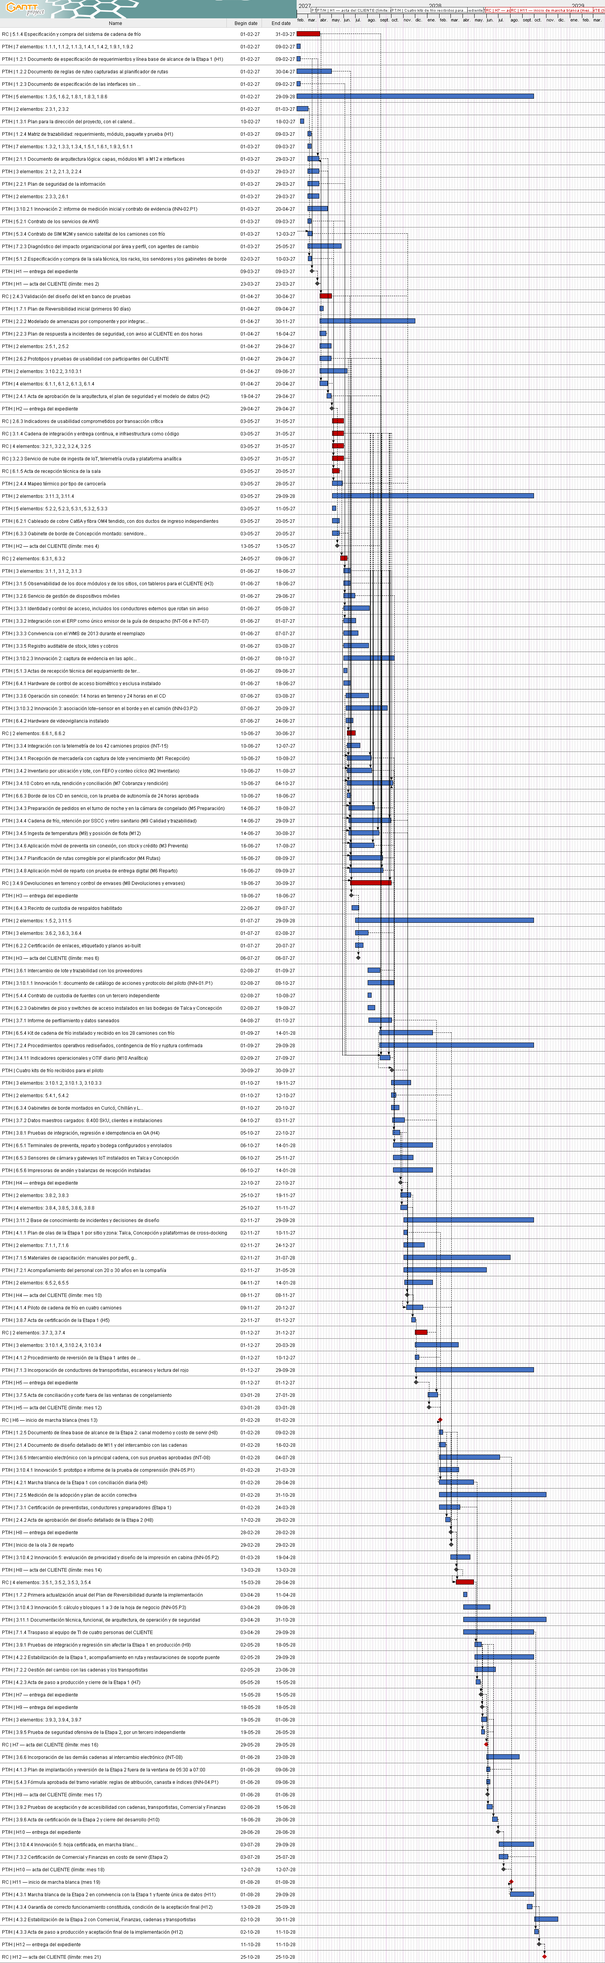
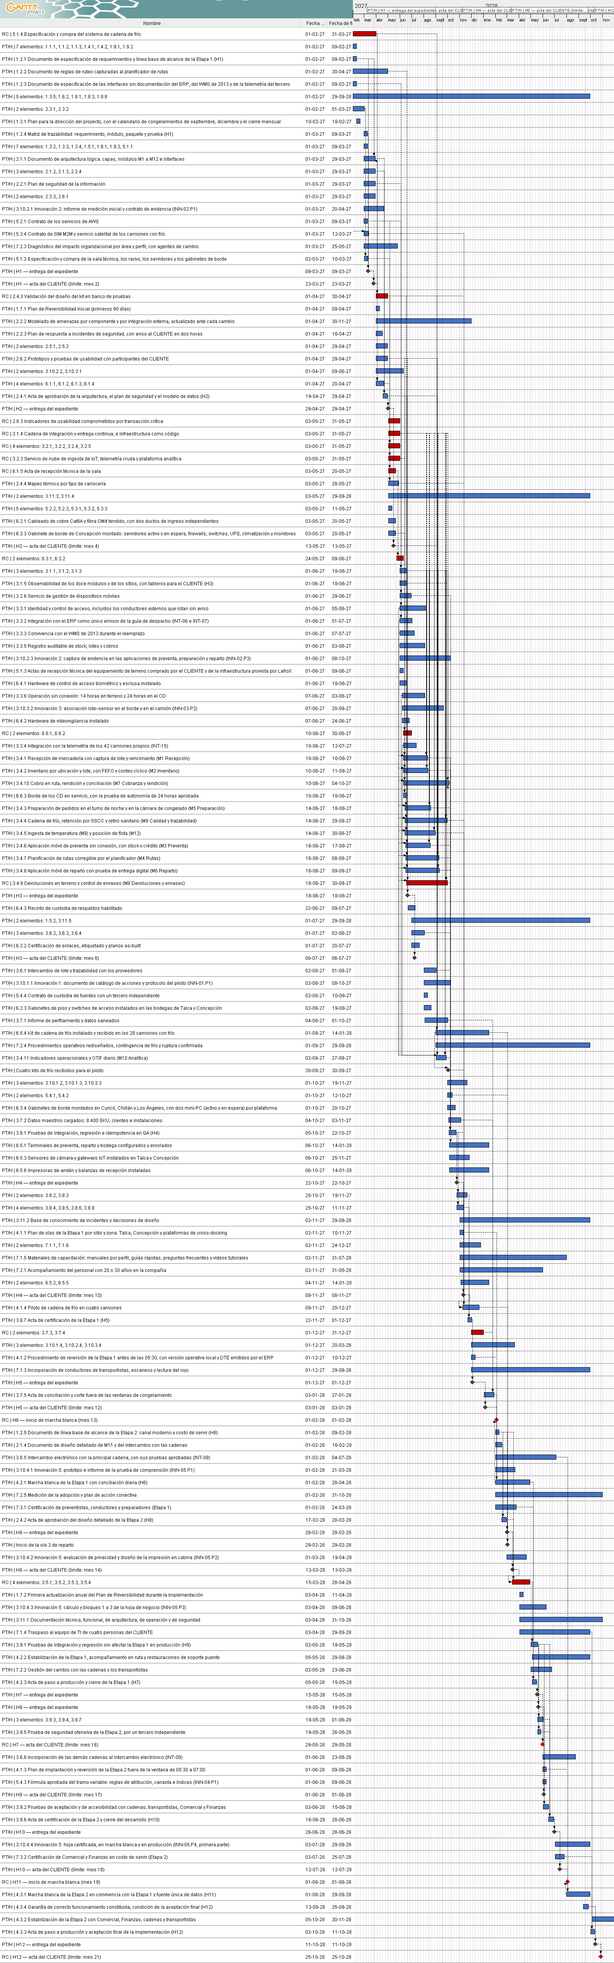
docs(sd7): usa solo cartas Gantt de GanttProject y cumple calendario
- Reemplaza en SD7 y T-14 las cartas Gantt generadas con IA por la
  carta resumida de GanttProject, dividida en 7 tramos, y su vista crítica.
- Agrega la carta de 56 meses (Fig_7_Gantt_56_Meses.gan), que exige el
  Formulario T-14: períodos del art. 17, marchas blancas, pasos a
  producción, inicio de la Operación e hitos H1 a H12.
- Mueve el inicio de 4.2.2 al 5-05-2028 y el de 4.3.2 al 5-10-2028, el
  cuarto día hábil del mes, para que ningún paso a producción caiga en
  los tres primeros días hábiles (Caso 13.3, condición 2; RT-20.06).
- Alinea los textos con la carta: 4.3.2 cubre del 5-10 al 30-11 y las
  cuatro semanas reforzadas tras el acta H12 quedan dentro de ese período.

diff --git a/formulario-t14/contenido.tex b/formulario-t14/contenido.tex
@@ -11,7 +11,7 @@
   \end{anexohorizontal}
   \clearpage}
 
-Este formulario detalla lo que el Subdocumento 7 (LafroX, 2026p) resume en sus secciones 7.1 y 7.3, conforme al Formulario T-14 de las Bases Administrativas y al Capítulo 7 del índice obligatorio de las Aclaraciones de la licitación (Distribuidora Puelche S.A., 2026d, sec. 11). Contiene la estructura de descomposición del trabajo (EDT) completa; su diccionario, con el entregable, el criterio de aceptación, el responsable y el período de cada paquete; y la carta Gantt de los 56 meses del contrato. El método de estimación y programación, la ruta crítica y los frentes de trabajo se detallan en el Formulario T-15, y la implantación de cada etapa, en el Formulario T-18 (LafroX, 2026s). La EDT termina en el paquete de trabajo; la descomposición de cada paquete en actividades de 8 a 80 horas hombre que caben en una quincena, con sus fechas, está en el Formulario T-15, sección 6. La EDT termina en el paquete de trabajo; la descomposición de cada paquete en actividades de 8 a 80 horas hombre que caben en una quincena está en el Formulario T-15, sección 6.
+Este formulario detalla lo que el Subdocumento 7 (LafroX, 2026p) resume en sus secciones 7.1 y 7.3, conforme al Formulario T-14 de las Bases Administrativas y al Capítulo 7 del índice obligatorio de las Aclaraciones de la licitación (Distribuidora Puelche S.A., 2026d, sec. 11). Contiene la estructura de descomposición del trabajo (EDT) completa; su diccionario, con el entregable, el criterio de aceptación, el responsable y el período de cada paquete; y la carta Gantt de los 56 meses del contrato, con el detalle de las Etapas 1 y 2. El método de estimación y programación, la ruta crítica y los frentes de trabajo se detallan en el Formulario T-15, y la implantación de cada etapa, en el Formulario T-18 (LafroX, 2026s). La EDT termina en el paquete de trabajo; la descomposición de cada paquete en actividades de 8 a 80 horas hombre que caben en una quincena, con sus fechas, está en el Formulario T-15, sección 6. La EDT termina en el paquete de trabajo; la descomposición de cada paquete en actividades de 8 a 80 horas hombre que caben en una quincena está en el Formulario T-15, sección 6.
 
 En este formulario, BA, BTT y Caso designan las Bases Administrativas (Distribuidora Puelche S.A., 2026a), las Bases Técnicas Transversales (2026b) y las Bases Técnicas del Caso Logística (2026c).
 
@@ -1082,33 +1082,58 @@ La Tabla \ref{tab:T-14-51} presenta sus paquetes.
 
 \parte{tablas/tab_T14_51}
 
-\section{Carta Gantt de 56 meses}
+\section{Carta Gantt}
 
-La carta Gantt cubre los 56 meses del contrato y muestra las ventanas de marcha blanca, los pasos a producción y el inicio de la fase de Operación, como exige el Formulario T-14. Su estructura contractual la fija el artículo 17 de las Bases Administrativas (pp. 12--13), y los hitos y sus meses, el Formulario E-25. La Tabla \ref{tab:T14-gantt} presenta esa estructura fija, sobre la cual se programan los paquetes de la sección 2.
+La carta Gantt muestra las ventanas de marcha blanca, los pasos a producción y el inicio de la fase de Operación, como exige el Formulario T-14. Su estructura contractual la fija el artículo 17 de las Bases Administrativas (pp. 12--13), y los hitos y sus meses, el Formulario E-25. La Tabla \ref{tab:T14-gantt} presenta esa estructura fija de los 56 meses, sobre la cual se programan los paquetes de la sección 2.
 
 \parte{tablas/tab_T14_52}
 
-Ningún paso a producción, inicio de ola, corte de datos ni intervención con impacto en la facturación o en el inventario valorizado se programa en septiembre, en diciembre ni en los tres primeros días hábiles de un mes (Caso, secciones 13.2 y 13.3, pp. 22--23). La correspondencia entre meses contractuales y meses calendario depende de la fecha de inicio del contrato; se analiza en la sección 7.3.2 del Subdocumento 7 y en su Anexo 7.A, que adoptan como supuesto un inicio en febrero de 2027. La Figura \ref{fig:T14-56} presenta la carta de los 56 meses por período contractual y por fase.
+Ningún paso a producción, inicio de ola, corte de datos ni intervención con impacto en la facturación o en el inventario valorizado se programa en septiembre, en diciembre ni en los tres primeros días hábiles de un mes (Caso, secciones 13.2 y 13.3, pp. 22--23). La correspondencia entre meses contractuales y meses calendario depende de la fecha de inicio del contrato; se analiza en la sección 7.3.2 del Subdocumento 7 y en su Anexo 7.A, que adoptan como supuesto un inicio en febrero de 2027.
 
-\figuraDiagramaHorizontal[527pt]{imagenes/Diagramas que faltaban/Fig_7-8_T14-1_Gantt_56_meses.pdf}
-  {Carta Gantt de los 56 meses por período contractual y por fase, con inicio en febrero de 2027. Fuente: elaboración a partir de Distribuidora Puelche S.A. (2026a, art. 17, pp. 12--13 y Formulario E-25) y la sección 2 de este formulario.}
+La Figura \ref{fig:T14-56} presenta la carta de los 56 meses del contrato, elaborada en GanttProject: los períodos del artículo 17, las ventanas de marcha blanca, los pasos a producción del 5 de mayo y del 5 de octubre de 2028 (cuarto día hábil de cada mes), el inicio de la Operación, simultáneo con el paso a producción de la Etapa 2, y los hitos H1 a H12.
+
+\figuraDiagramaHorizontal[0pt]{imagenes/Diagramas que faltaban/LafroX-Gantt-56-meses.png}
+  {Carta Gantt de los 56 meses por período contractual, con inicio en febrero de 2027. Fuente: elaboración en GanttProject a partir de Distribuidora Puelche S.A. (2026a, art. 17, pp. 12--13 y Formulario E-25) y de las Figuras \ref{fig:T14-gantt} a \ref{fig:T14-gantt-7}.}
   {fig:T14-56}
 
-La carta confirma que los períodos fijos del artículo 17 de las Bases Administrativas (pp. 12--13) se cumplen mes a mes y que ningún paso a producción cae en una columna de congelamiento. La sección 3.1 detalla la programación por cuenta de control.
+Las Figuras \ref{fig:T14-gantt} a \ref{fig:T14-gantt-7} detallan, en siete partes, la implementación de las Etapas 1 y 2: 155 filas ordenadas por fecha de inicio, desde febrero de 2027 hasta la estabilización de la Etapa 2, con las dependencias entre paquetes visibles. Cada fila es un paquete con entregable, un grupo de paquetes que comparten fechas («n elementos») o un hito del Formulario E-25, separado en la entrega del expediente y el acta del CLIENTE. El prefijo RC marca los elementos de la ruta crítica; PT/H, los demás paquetes y los hitos.
 
-Según la carta de la sección 3.1, la sala técnica y el borde de los sitios se instalan entre los meses 3 y 5, la base compartida y los módulos de la Etapa 1 se construyen entre los meses 5 y 8, y las pruebas de integración y certificación de la Etapa 1 ocupan los meses 9 y 10, antes del H5 del mes 12. Las cuentas de la Etapa 2 (3.5, 3.9, 4.3 y la segunda parte de 5.4) se ubican entre los meses 13 y 22, con los módulos en el mes 15 y la integración y certificación en los meses 16 y 17. Las cuentas de capacitación y de gestión del cambio se intensifican desde el mes 10, en preparación de cada marcha blanca.
+\figuraDiagramaHorizontal[0pt]{imagenes/Diagramas que faltaban/Gantt-Resumen-Tramos/LafroX-Gantt-resumen-1-de-7.png}
+  {Carta Gantt resumida de las Etapas 1 y 2 con dependencias visibles, parte 1 de 7 (filas 1 a 23 de 155), con inicio en febrero de 2027. Fuente: elaboración en GanttProject a partir de la sección 2 de este formulario.}
+  {fig:T14-gantt}
 
-\subsection{Carta Gantt actualizada por cuenta de control}
+\figuraDiagramaHorizontal[0pt]{imagenes/Diagramas que faltaban/Gantt-Resumen-Tramos/LafroX-Gantt-resumen-2-de-7.png}
+  {Carta Gantt resumida de las Etapas 1 y 2 con dependencias visibles, parte 2 de 7 (filas 24 a 45 de 155), con inicio en febrero de 2027. Fuente: elaboración en GanttProject a partir de la sección 2 de este formulario.}
+  {fig:T14-gantt-2}
 
-Las siguientes vistas actualizadas detallan las cuentas de control de los meses 1 a 21: la primera, las fases 1 a 3; la segunda, las fases 4 a 7. La carta de 56 meses de la Figura \ref{fig:T14-56} presenta el panorama contractual completo. Cada barra va desde el primer mes hasta el último de las ventanas mensuales de los paquetes de la cuenta, según el Formulario T-15, sección 4.2; esas ventanas son envolventes de asignación y pueden incluir meses de margen sin ejecución. Las fechas diarias de los paquetes con entregable están en su sección 6.1. Los hitos se ubican al cierre de su mes, salvo H6 y H11, que marcan el inicio de una marcha blanca. El detalle por paquete, con sus 227 ventanas, está en la sección 4.2, y la red con revisiones del CLIENTE y el cálculo de la ruta crítica, en la sección 5. Las cuentas recurrentes (1.4, 1.8, 1.9, 7.1 y 8) se muestran como barras continuas, aunque su trabajo se ejecute con la frecuencia que fija este diccionario.
+\figuraDiagramaHorizontal[0pt]{imagenes/Diagramas que faltaban/Gantt-Resumen-Tramos/LafroX-Gantt-resumen-3-de-7.png}
+  {Carta Gantt resumida de las Etapas 1 y 2 con dependencias visibles, parte 3 de 7 (filas 46 a 67 de 155), con inicio en febrero de 2027. Fuente: elaboración en GanttProject a partir de la sección 2 de este formulario.}
+  {fig:T14-gantt-3}
 
-\figuraDiagramaHorizontal[361pt]{imagenes/Diagramas que faltaban/Fig_T14-2_Cuentas_m1-21_Fases1-3.pdf}
-  {Carta Gantt actualizada por cuenta de control, meses 1 a 21, fases 1 a 3. Fuente: elaboración a partir de la EDT de este formulario y LafroX (2026e, T-15, cronograma).}
-  {fig:T14-cca}
+\figuraDiagramaHorizontal[0pt]{imagenes/Diagramas que faltaban/Gantt-Resumen-Tramos/LafroX-Gantt-resumen-4-de-7.png}
+  {Carta Gantt resumida de las Etapas 1 y 2 con dependencias visibles, parte 4 de 7 (filas 68 a 89 de 155), con inicio en febrero de 2027. Fuente: elaboración en GanttProject a partir de la sección 2 de este formulario.}
+  {fig:T14-gantt-4}
 
-\figuraDiagramaHorizontal[463pt]{imagenes/Diagramas que faltaban/Fig_T14-3_Cuentas_m1-21_Fases4-7.pdf}
-  {Carta Gantt actualizada por cuenta de control, meses 1 a 21, fases 4 a 7. Fuente: elaboración a partir de la EDT de este formulario y LafroX (2026e, T-15, cronograma).}
-  {fig:T14-ccb}
+\figuraDiagramaHorizontal[0pt]{imagenes/Diagramas que faltaban/Gantt-Resumen-Tramos/LafroX-Gantt-resumen-5-de-7.png}
+  {Carta Gantt resumida de las Etapas 1 y 2 con dependencias visibles, parte 5 de 7 (filas 90 a 111 de 155), con inicio en febrero de 2027. Fuente: elaboración en GanttProject a partir de la sección 2 de este formulario.}
+  {fig:T14-gantt-5}
+
+\figuraDiagramaHorizontal[0pt]{imagenes/Diagramas que faltaban/Gantt-Resumen-Tramos/LafroX-Gantt-resumen-6-de-7.png}
+  {Carta Gantt resumida de las Etapas 1 y 2 con dependencias visibles, parte 6 de 7 (filas 112 a 133 de 155), con inicio en febrero de 2027. Fuente: elaboración en GanttProject a partir de la sección 2 de este formulario.}
+  {fig:T14-gantt-6}
+
+\figuraDiagramaHorizontal[0pt]{imagenes/Diagramas que faltaban/Gantt-Resumen-Tramos/LafroX-Gantt-resumen-7-de-7.png}
+  {Carta Gantt resumida de las Etapas 1 y 2 con dependencias visibles, parte 7 de 7 (filas 134 a 155 de 155), con inicio en febrero de 2027. Fuente: elaboración en GanttProject a partir de la sección 2 de este formulario.}
+  {fig:T14-gantt-7}
+
+La carta confirma que los períodos fijos del artículo 17 de las Bases Administrativas (pp. 12--13) se cumplen mes a mes y que ningún paso a producción cae en un período de congelamiento. La sala técnica y el borde de los sitios se instalan entre los meses 3 y 5, la base compartida y los módulos de la Etapa 1 se construyen entre los meses 4 y 8, y las pruebas de integración y certificación de la Etapa 1 ocupan los meses 9 y 10, antes del H5 del mes 12. Las cuentas de la Etapa 2 (3.5, 3.9, 4.3 y la segunda parte de 5.4) se ubican entre los meses 13 y 22, con los módulos en los meses 14 y 15 y la integración y certificación en los meses 16 y 17. Las cuentas de capacitación y de gestión del cambio se intensifican desde el mes 10, en preparación de cada marcha blanca. Las fechas diarias de los paquetes con entregable están en el Formulario T-15, sección 6.1, y la red con revisiones del CLIENTE y el cálculo de la ruta crítica, en su sección 5.
+
+La Figura \ref{fig:T14-gantt-critica} aísla los elementos de la ruta crítica y sus dependencias hasta los inicios de las marchas blancas, H6 y H11, cuyas fechas son fijas.
+
+\figuraDiagramaHorizontal[0pt]{imagenes/Diagramas que faltaban/LafroX-Gantt-vista-critica.png}
+  {Vista crítica de la carta Gantt: paquetes de la ruta crítica y sus dependencias hasta H6 y H11. Fuente: elaboración en GanttProject a partir de la sección 2 de este formulario.}
+  {fig:T14-gantt-critica}
+
 \section{Criterios vigentes de programación y recursos}
 
 Las ventanas mensuales de asignación y las HH por paquete están en el T-15, sección 4. La preparación del H3 sigue esta secuencia: planos 2.3.1/\allowbreak{}2.3.2 en el mes 1, especificación y orden de compra de LafroX 5.1.2 en el mes 2, instalación 6.1.1–6.1.4 en el mes 3 y recepción 6.1.5 en el mes 4. Los racks R01/\allowbreak{}R02 se montan en los meses 4 y 5, el gabinete de Concepción en el mes 4 y el borde de los CD entra en servicio mediante 6.6.3 en el mes 5. Los gabinetes de cross-docking se montan en el mes 9. El CLIENTE compra el equipamiento de terreno antes de cada ola.

diff --git a/subdocumento-07/contenido.tex b/subdocumento-07/contenido.tex
@@ -368,9 +368,15 @@ La Figura \ref{fig:7-ruta} distingue la entrega técnica del acta posterior a la
 
 La holgura se gestiona en la reunión semanal y el Comité de Proyecto quincenal (paquetes 1.3.5 y 1.8.3). Como las holguras de H7 y H12 son menores que el plazo de subsanación, sus expedientes se revisan con la Contraparte Técnica antes de la entrega formal, durante las semanas finales de cada marcha blanca; toda amenaza a esos hitos se escala al Comité Ejecutivo. Una holgura positiva tampoco autoriza consumir las cuatro semanas finales de marcha blanca. El informe mensual de valor ganado comunica toda desviación mayor al 10 \% y su plan dentro de cinco días hábiles (1.8.6).
 
+La Figura \ref{fig:7-gantt-critica} complementa la Figura \ref{fig:7-ruta}: muestra en la carta Gantt los paquetes de la ruta crítica y sus dependencias hasta los inicios de las marchas blancas, H6 y H11, cuyas fechas son fijas.
+
+\figuraDiagramaHorizontal[0pt]{imagenes/Diagramas que faltaban/LafroX-Gantt-vista-critica.png}
+  {Vista crítica de la carta Gantt: paquetes de la ruta crítica y sus dependencias hasta H6 y H11. Fuente: elaboración en GanttProject a partir de LafroX (2026d, T-14).}
+  {fig:7-gantt-critica}
+
 \subsection{Carta Gantt y calendario}
 
-La carta Gantt del Formulario T-14 cubre los 56 meses y muestra las marchas blancas, los pasos a producción y el inicio de la Operación. La Tabla \ref{tab:7-hitos} ubica los doce hitos del Formulario E-25 con el paquete que entrega cada uno.
+La carta Gantt del Formulario T-14 muestra las marchas blancas, los pasos a producción y el inicio de la Operación, sobre la estructura contractual de los 56 meses. La Tabla \ref{tab:7-hitos} ubica los doce hitos del Formulario E-25 con el paquete que entrega cada uno.
 
 \parte{tablas/tab_SD7_4}
 
@@ -382,13 +388,43 @@ Los meses contractuales caen en meses calendario distintos según la fecha de in
 
 Ningún inicio admisible deja las dos marchas blancas completas fuera de septiembre y diciembre; el Anexo 7.A extiende el análisis a los ocho meses de inicio admisibles. Con un inicio en diciembre de 2026, el inicio de la marcha blanca de la Etapa 1 cae en diciembre; con uno en marzo de 2027, el inicio de la marcha blanca de la Etapa 2 cae en septiembre. Con febrero de 2027, en cambio, el congelamiento afecta solo el segundo mes de la marcha blanca de la Etapa 2 y no un inicio, por lo que LafroX lo adopta como supuesto de calendario del cronograma. Su costo es que las semanas de cierre de esa marcha blanca coinciden con el peak de septiembre, que la sección 7.3.5 trata. Dentro de un mes de congelamiento no se inicia ninguna ola ni se despliega ningún cambio, y la marcha blanca continúa en convivencia, con medición diaria.
 
-La Figura \ref{fig:7-gantt} presenta la carta Gantt resumida de los 56 meses con ese supuesto de inicio, por período contractual. La carta vigente por cuenta de control, generada desde las ventanas reconciliadas de los 227 paquetes, está en el Formulario T-14, sección 3.1.
+La Figura \ref{fig:7-gantt-56} presenta la carta de los 56 meses con ese supuesto de inicio, elaborada en GanttProject: los períodos contractuales, las ventanas de marcha blanca, los pasos a producción del 5 de mayo y del 5 de octubre de 2028 (cuarto día hábil de cada mes), el inicio de la Operación y los hitos H1 a H12.
 
-\figuraDiagramaHorizontal[527pt]{imagenes/Diagramas que faltaban/Fig_7-8_T14-1_Gantt_56_meses.pdf}
-  {Carta Gantt resumida de los 56 meses, con inicio en febrero de 2027. Fuente: elaboración a partir de Distribuidora Puelche S.A. (2026a, art. 17, pp. 12--13 y Formulario E-25) y LafroX (2026d, T-14).}
+\figuraDiagramaHorizontal[0pt]{imagenes/Diagramas que faltaban/LafroX-Gantt-56-meses.png}
+  {Carta Gantt de los 56 meses por período contractual, con inicio en febrero de 2027. Fuente: elaboración en GanttProject a partir de Distribuidora Puelche S.A. (2026a, art. 17, pp. 12--13 y Formulario E-25) y LafroX (2026d, T-14).}
+  {fig:7-gantt-56}
+
+Las Figuras \ref{fig:7-gantt} a \ref{fig:7-gantt-7} detallan, en siete partes, la implementación de las Etapas 1 y 2: 155 filas ordenadas por fecha de inicio, desde febrero de 2027 hasta la estabilización de la Etapa 2, con las dependencias entre paquetes visibles. Cada fila es un paquete con entregable, un grupo de paquetes que comparten fechas o un hito, separado en la entrega del expediente y el acta del CLIENTE; el prefijo RC marca la ruta crítica. Ambas cartas están también en el Formulario T-14, sección 3.
+
+\figuraDiagramaHorizontal[0pt]{imagenes/Diagramas que faltaban/Gantt-Resumen-Tramos/LafroX-Gantt-resumen-1-de-7.png}
+  {Carta Gantt resumida de las Etapas 1 y 2 con dependencias visibles, parte 1 de 7 (filas 1 a 23 de 155), con inicio en febrero de 2027. Fuente: elaboración en GanttProject a partir de LafroX (2026d, T-14).}
   {fig:7-gantt}
 
-La carta muestra los periodos fijos del artículo 17 de las Bases Administrativas (pp. 12--13) mes a mes: el mes 16 es mayo de 2028 y el mes 21, octubre de 2028. Las fases de desarrollo aparecen dos veces, una por etapa, y la capacitación continúa durante la operación por la rotación de la bodega. Las columnas rayadas del mes 20 y del mes 23 confirman lo que anticipa la Tabla \ref{tab:7-inicio}: la marcha blanca de la Etapa 2 ocupa septiembre y el primer diciembre de operación cae en el mes 23. La fecha objetivo del H12, del paso oficial a producción de la Etapa 2 y del inicio simultáneo de la Operación con ambos alcances es el primer día hábil del mes 21 fuera de sus tres primeros días hábiles (5 de octubre de 2028 sólo bajo el supuesto de inicio en febrero de 2027). La programación de detalle aún calcula el acta para el 25 de octubre; por eso sus fechas de archivo final 9.1.2 y de estabilización 4.3.2, del 26 de octubre al 22 de noviembre, son las del calendario pendiente de revisión. La operación supervisada de la Etapa 2 con datos y usuarios reales durante la marcha blanca no sustituye el paso oficial a producción ni el acta H12. La carta mensual no demuestra por sí sola que la fecha objetivo se pueda cumplir.
+\figuraDiagramaHorizontal[0pt]{imagenes/Diagramas que faltaban/Gantt-Resumen-Tramos/LafroX-Gantt-resumen-2-de-7.png}
+  {Carta Gantt resumida de las Etapas 1 y 2 con dependencias visibles, parte 2 de 7 (filas 24 a 45 de 155), con inicio en febrero de 2027. Fuente: elaboración en GanttProject a partir de LafroX (2026d, T-14).}
+  {fig:7-gantt-2}
+
+\figuraDiagramaHorizontal[0pt]{imagenes/Diagramas que faltaban/Gantt-Resumen-Tramos/LafroX-Gantt-resumen-3-de-7.png}
+  {Carta Gantt resumida de las Etapas 1 y 2 con dependencias visibles, parte 3 de 7 (filas 46 a 67 de 155), con inicio en febrero de 2027. Fuente: elaboración en GanttProject a partir de LafroX (2026d, T-14).}
+  {fig:7-gantt-3}
+
+\figuraDiagramaHorizontal[0pt]{imagenes/Diagramas que faltaban/Gantt-Resumen-Tramos/LafroX-Gantt-resumen-4-de-7.png}
+  {Carta Gantt resumida de las Etapas 1 y 2 con dependencias visibles, parte 4 de 7 (filas 68 a 89 de 155), con inicio en febrero de 2027. Fuente: elaboración en GanttProject a partir de LafroX (2026d, T-14).}
+  {fig:7-gantt-4}
+
+\figuraDiagramaHorizontal[0pt]{imagenes/Diagramas que faltaban/Gantt-Resumen-Tramos/LafroX-Gantt-resumen-5-de-7.png}
+  {Carta Gantt resumida de las Etapas 1 y 2 con dependencias visibles, parte 5 de 7 (filas 90 a 111 de 155), con inicio en febrero de 2027. Fuente: elaboración en GanttProject a partir de LafroX (2026d, T-14).}
+  {fig:7-gantt-5}
+
+\figuraDiagramaHorizontal[0pt]{imagenes/Diagramas que faltaban/Gantt-Resumen-Tramos/LafroX-Gantt-resumen-6-de-7.png}
+  {Carta Gantt resumida de las Etapas 1 y 2 con dependencias visibles, parte 6 de 7 (filas 112 a 133 de 155), con inicio en febrero de 2027. Fuente: elaboración en GanttProject a partir de LafroX (2026d, T-14).}
+  {fig:7-gantt-6}
+
+\figuraDiagramaHorizontal[0pt]{imagenes/Diagramas que faltaban/Gantt-Resumen-Tramos/LafroX-Gantt-resumen-7-de-7.png}
+  {Carta Gantt resumida de las Etapas 1 y 2 con dependencias visibles, parte 7 de 7 (filas 134 a 155 de 155), con inicio en febrero de 2027. Fuente: elaboración en GanttProject a partir de LafroX (2026d, T-14).}
+  {fig:7-gantt-7}
+
+La carta muestra los periodos fijos del artículo 17 de las Bases Administrativas (pp. 12--13) mes a mes: el mes 16 es mayo de 2028 y el mes 21, octubre de 2028. La marcha blanca de la Etapa 1 (4.2.1) comienza con el H6 el 1 de febrero de 2028, y la de la Etapa 2 (4.3.1), con el H11 el 1 de agosto de 2028; como anticipa la Tabla \ref{tab:7-inicio}, esta última ocupa septiembre. La fecha objetivo del H12, del paso oficial a producción de la Etapa 2 y del inicio simultáneo de la Operación con ambos alcances es el primer día hábil del mes 21 fuera de sus tres primeros días hábiles (5 de octubre de 2028 sólo bajo el supuesto de inicio en febrero de 2027). La programación de detalle calcula el acta para el 25 de octubre. La estabilización 4.3.2 comienza con el paso a producción, el 5 de octubre, y se extiende hasta el 30 de noviembre; sus cuatro semanas reforzadas, del 26 de octubre al 22 de noviembre, siguen a la firma del acta, igual que el archivo final 9.1.2. La operación supervisada de la Etapa 2 con datos y usuarios reales durante la marcha blanca no sustituye el paso oficial a producción ni el acta H12. La carta no demuestra por sí sola que la fecha objetivo se pueda cumplir.
 
 Antes de cada paso a producción, el cronograma reserva las pruebas que exige el numeral 20.1 de las Bases Técnicas Transversales (p. 35): carga y estrés a 1,5 veces el peak, resiliencia, recuperación ante desastres con conmutación real, seguridad ofensiva y accesibilidad. Además, programa dos ensayos de migración antes de la migración definitiva. En la Etapa 1 estas pruebas forman la cuenta 3.8, se ejecutan en los meses 9 y 10 y se entregan antes del H5 del mes 12; en la Etapa 2 forman la cuenta 3.9, se ejecutan en los meses 16 y 17 y se entregan antes del H10 del mes 18 (Formulario T-15, Tabla 5.2).
 

diff --git a/formulario-t15/contenido.tex b/formulario-t15/contenido.tex
@@ -94,7 +94,7 @@ Los supuestos y el cálculo del modelo de recursos son los siguientes.
 \item Capacidad nominal asumida: 160 HH/persona-mes; disponibilidad programable 80 \%; capacidad efectiva 128 HH. El 20 \% cubre ausencias y coordinación no imputada. No es una jornada contractual ni un cálculo de cumplimiento laboral.
 \item Esfuerzo inicial por clase y paquete: G gestión/acta 80 HH; E diseño/configuración/innovación 240 HH; D módulo 960 HH; I integración/migración 480 HH; V prueba 320 HH (integración y cierres de certificación: 160 HH); T instalación/capacitación 160 HH. Las clases de tamaño se fundan en los requerimientos del T-12 y en las cantidades del T-11, y se recalculan con el equipo al establecer la línea base. La tabla al final de esta sección explica qué contiene cada clase.
 \item R identifica esfuerzo recurrente mensual, incluidos equivalentes mensuales de actividades anuales/semestrales: la distribución contable no cambia la frecuencia de ejecución del T-14.
-\item A identifica acompañamiento: 13 puestos simultáneos de terreno/coordinación; 12 \ensuremath{\times} 24 días \ensuremath{\times} 8 horas + 160 HH de coordinación = 2.464 HH por cuatro semanas; soporte E1 meses 16–20 con previsión 2.464/\allowbreak{}1.312/\allowbreak{}544/\allowbreak{}544/\allowbreak{}544 HH para puestos 13/\allowbreak{}7/\allowbreak{}3/\allowbreak{}3/\allowbreak{}3, condicionada a los indicadores del T-18. Las cuatro semanas de 4.3.2 empiezan después de la firma de H12: con el acta calculada para el 25 de octubre de 2028 en la Tabla \ref{tab_T15_7}, el acompañamiento comienza el 26 de octubre, termina el 22 de noviembre y ocupa 5 de sus 24 días de lunes a sábado en el mes 21 y 19 en el mes 22. A razón de 2.464/24 HH por día, la imputación es 513,33 HH en el mes 21 y 1.950,67 HH en el mes 22. La fecha es un supuesto de programación, sujeto a la firma efectiva del CLIENTE; si cambia, se recalcula el reparto sin acortar las cuatro semanas.
+\item A identifica acompañamiento: 13 puestos simultáneos de terreno/coordinación; 12 \ensuremath{\times} 24 días \ensuremath{\times} 8 horas + 160 HH de coordinación = 2.464 HH por cuatro semanas; soporte E1 meses 16–20 con previsión 2.464/\allowbreak{}1.312/\allowbreak{}544/\allowbreak{}544/\allowbreak{}544 HH para puestos 13/\allowbreak{}7/\allowbreak{}3/\allowbreak{}3/\allowbreak{}3, condicionada a los indicadores del T-18. La estabilización 4.3.2 abarca desde el paso a producción de la Etapa 2, el 5 de octubre de 2028, hasta el 30 de noviembre, según la carta Gantt del T-14; sus cuatro semanas reforzadas empiezan después de la firma de H12: con el acta calculada para el 25 de octubre de 2028 en la Tabla \ref{tab_T15_7}, el acompañamiento comienza el 26 de octubre, termina el 22 de noviembre y ocupa 5 de sus 24 días de lunes a sábado en el mes 21 y 19 en el mes 22. A razón de 2.464/24 HH por día, la imputación es 513,33 HH en el mes 21 y 1.950,67 HH en el mes 22. La fecha es un supuesto de programación, sujeto a la firma efectiva del CLIENTE; si cambia, se recalcula el reparto sin acortar las cuatro semanas.
 \item C identifica cobertura por horas-posición del calendario real, con el mes 1 en febrero de 2027 (Anexo 7.A). NOC (8.1.1) y SOC (8.1.5) mantienen un puesto 24\ensuremath{\times}7 cada uno: días del mes \ensuremath{\times} 24, es decir 744 HH en un mes de 31 días, 720 en uno de 30 y 672 en febrero. La mesa (8.1.2, primera línea de incidentes del artículo 78 de las Bases Administrativas (p. 40)) aplica las posiciones del SD4 (LafroX, 2026m), Anexo 4-W.7: 7 en la hora cargada y 2 en las otras 17 horas de 04:00 a 22:00, o 41 horas-posición por día de lunes a sábado, y desde el mes 25 un tercer agente en esas 17 horas, 58 horas-posición por día, con el que la dotación cubre los tres niveles de servicio hasta 2.391 contactos al mes (SD4, Anexo 4-W.7); en septiembre y diciembre se suman 6 horas-posición de 22:00 a 04:00 de lunes a sábado y 24 los domingos. Así, un mes de 26 días de lunes a sábado exige 26 \ensuremath{\times} 41 = 1.066 HH de mesa, y septiembre de 2028 exige 26 \ensuremath{\times} 47 + 4 \ensuremath{\times} 24 = 1.318 HH. El SOC es propio de LafroX y opera desde su Centro de Operaciones en Valparaíso (RT-11.17; SD4, Anexo 4-W.7); sus HH se imputan aquí. Las posiciones de la mesa provienen de un Erlang C con supuestos de demanda: no acreditan abandono ni resolución al primer contacto, que se miden según la sección 5.6. La curva dimensiona relevos con 128 HH efectivas.
 \item O = 0,75M; P = 1,25M; E = (O + 4M + P)/6 = M. Para A/C, O = M = P: no se reduce cobertura por un escenario optimista. Los riesgos de demanda y ausencias se tratan separadamente.
 \item E se reparte uniformemente entre los meses inclusivos declarados como presupuesto preliminar, salvo las pruebas de certificación reprogramadas 3.9.2–3.9.7 y el acompañamiento 4.3.2, que se imputan por los días de ejecución de cada mes. Las ventanas relativas pueden abarcar meses de reserva sin trabajo continuo: la Tabla \ref{tab_T15_paquetes} fija el inicio y fin de los paquetes con entregable y el diccionario T-14 mantiene las restricciones de aceptación. Coincidir en un mes no demuestra que una precedencia dentro del mes se haya satisfecho.

diff --git a/formulario-t14/tablas/tab_T14_31.tex b/formulario-t14/tablas/tab_T14_31.tex
@@ -2,7 +2,7 @@
   {Y Y Y Y Y Y}
   {\cab{Código} & \cab{Paquete de trabajo} & \cab{Entregable} & \cab{Criterio de aceptación} & \cab{Resp.} & \cab{Período}}
   4.3.1 & Marcha blanca de la Etapa 2 en convivencia con la Etapa 1 y fuente única de datos (H11) & Informes diarios de indicadores y de conciliación; informe mensual de restauración de respaldos. & Se cumplen las seis condiciones del Art. 17.3, no hay doble digitación y cada mes se restaura una muestra representativa sin errores con su tiempo medido (RT-07.12). & IMP & Meses 19 y 20. Empieza con el H11. \\
-  4.3.2 & Estabilización de la Etapa 2 con Comercial, Finanzas, cadenas y transportistas & Informe de estabilización. & No quedan defectos críticos ni altos abiertos al cierre del período. & IMP & Cuatro semanas posteriores a la firma del H12: meses 21 y 22; con inicio contractual supuesto en febrero de 2027, del 26 de octubre al 22 de noviembre de 2028. \\
+  4.3.2 & Estabilización de la Etapa 2 con Comercial, Finanzas, cadenas y transportistas & Informe de estabilización. & No quedan defectos críticos ni altos abiertos al cierre del período. & IMP & Desde el paso a producción de la Etapa 2 hasta el cierre del mes 22, con cuatro semanas reforzadas posteriores a la firma del H12; con inicio contractual supuesto en febrero de 2027, del 5 de octubre al 30 de noviembre de 2028, con refuerzo del 26 de octubre al 22 de noviembre. \\
   4.3.3 & Acta de paso a producción y aceptación final de la implementación (H12) & Acta de aceptación final. & Está firmada en el mes 21, y la Etapa 1 no se degradó. & JP & Mes 21 (H12). \\
   4.3.4 & Garantía de correcto funcionamiento constituida, condición de la aceptación final (H12) & Garantía constituida. & Está entregada antes de la entrega del expediente del H12. & JP & Mes 20, en paralelo con la marcha blanca de la Etapa 2; es un trámite financiero y no interviene sistemas. \\
 \end{tablalafrox}

diff --git a/formulario-t14/tablas/tab_T14_53.tex b/formulario-t14/tablas/tab_T14_53.tex
@@ -3,5 +3,5 @@
   {\cab{Sección} & \cab{Herramienta} & \cab{Finalidad del uso} & \cab{Nivel en texto} & \cab{Nivel en diagramas} & \cab{Revisión humana (quién y qué verificó)}}
   1 EDT & Claude Code; Codex & Estructura a partir de la EDT de trabajo del equipo Actualización del 24-10-2026: cinco paquetes nuevos y alcance de cadena de frío; figuras conservadas. & Alto & Alto (descripción de figura) & [[REVISIÓN HUMANA]] La actualización del 24-10-2026 no cuenta con revisión humana registrada. \\
   2 Diccionario & Claude Code; Codex & Diccionario, periodos y criterios; ajustes de periodos, reversibilidad, salida y calidad Actualización del 24-10-2026: cinco paquetes nuevos y alcance de cadena de frío; figuras conservadas. & Alto & Ninguno & [[REVISIÓN HUMANA]] La actualización del 24-10-2026 no cuenta con revisión humana registrada. \\
-  3 Carta Gantt & Claude Code & Estructura contractual; carta vigente en Mermaid generada desde las ventanas del T-15 & Alto & Alto & [[REVISIÓN HUMANA]] \\
+  3 Carta Gantt & Claude Code & Estructura contractual y redacción de la sección; actualización del 26-10-2026: carta vigente elaborada en GanttProject & Alto & Alto & [[REVISIÓN HUMANA]] \\
 \end{tablalafrox}
